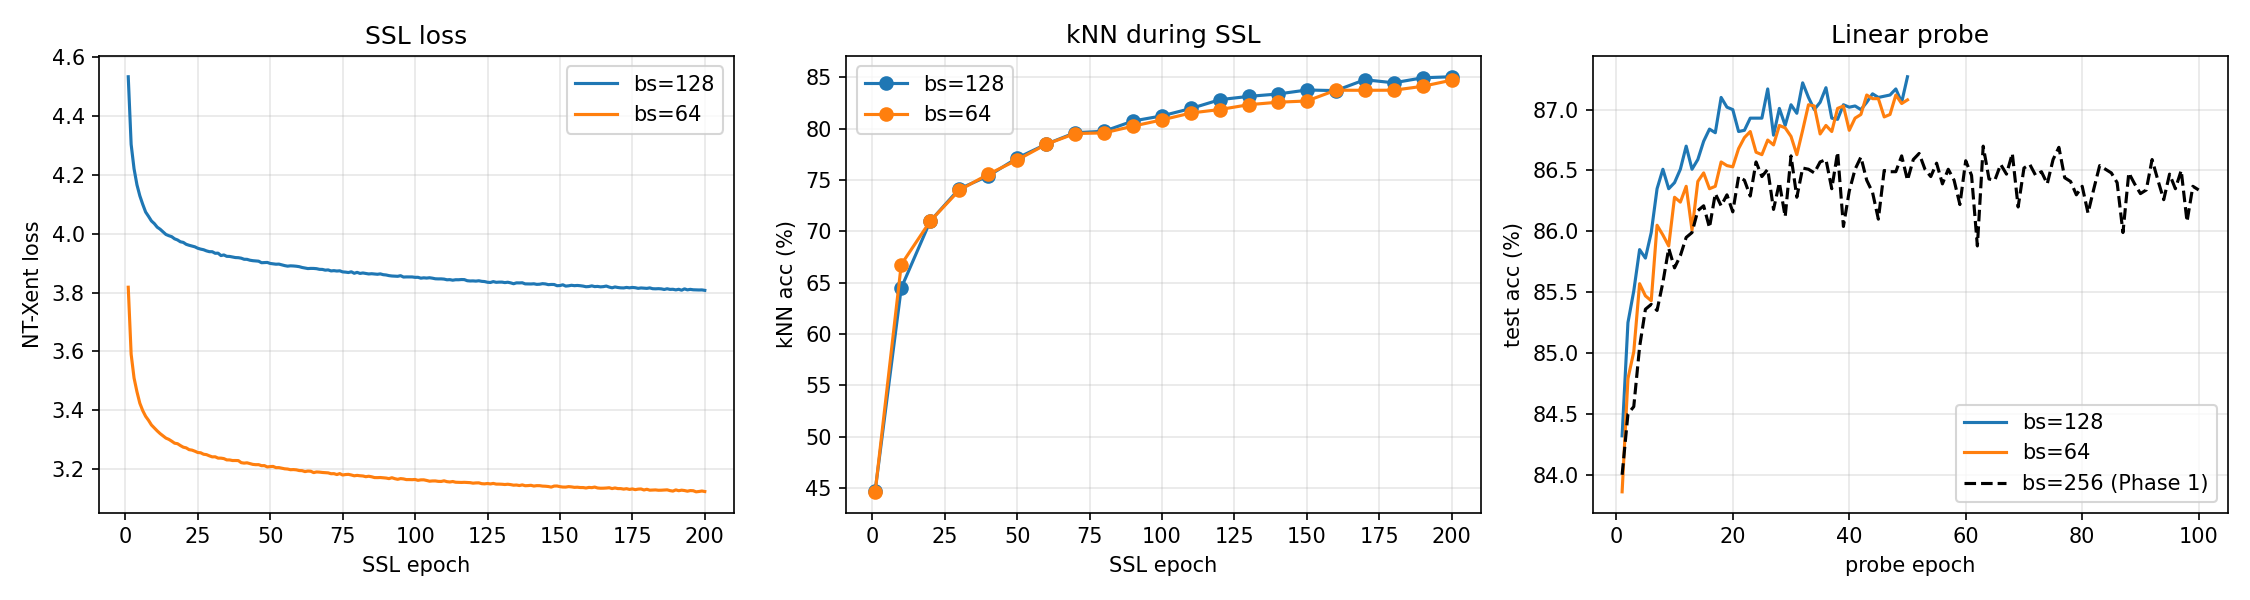
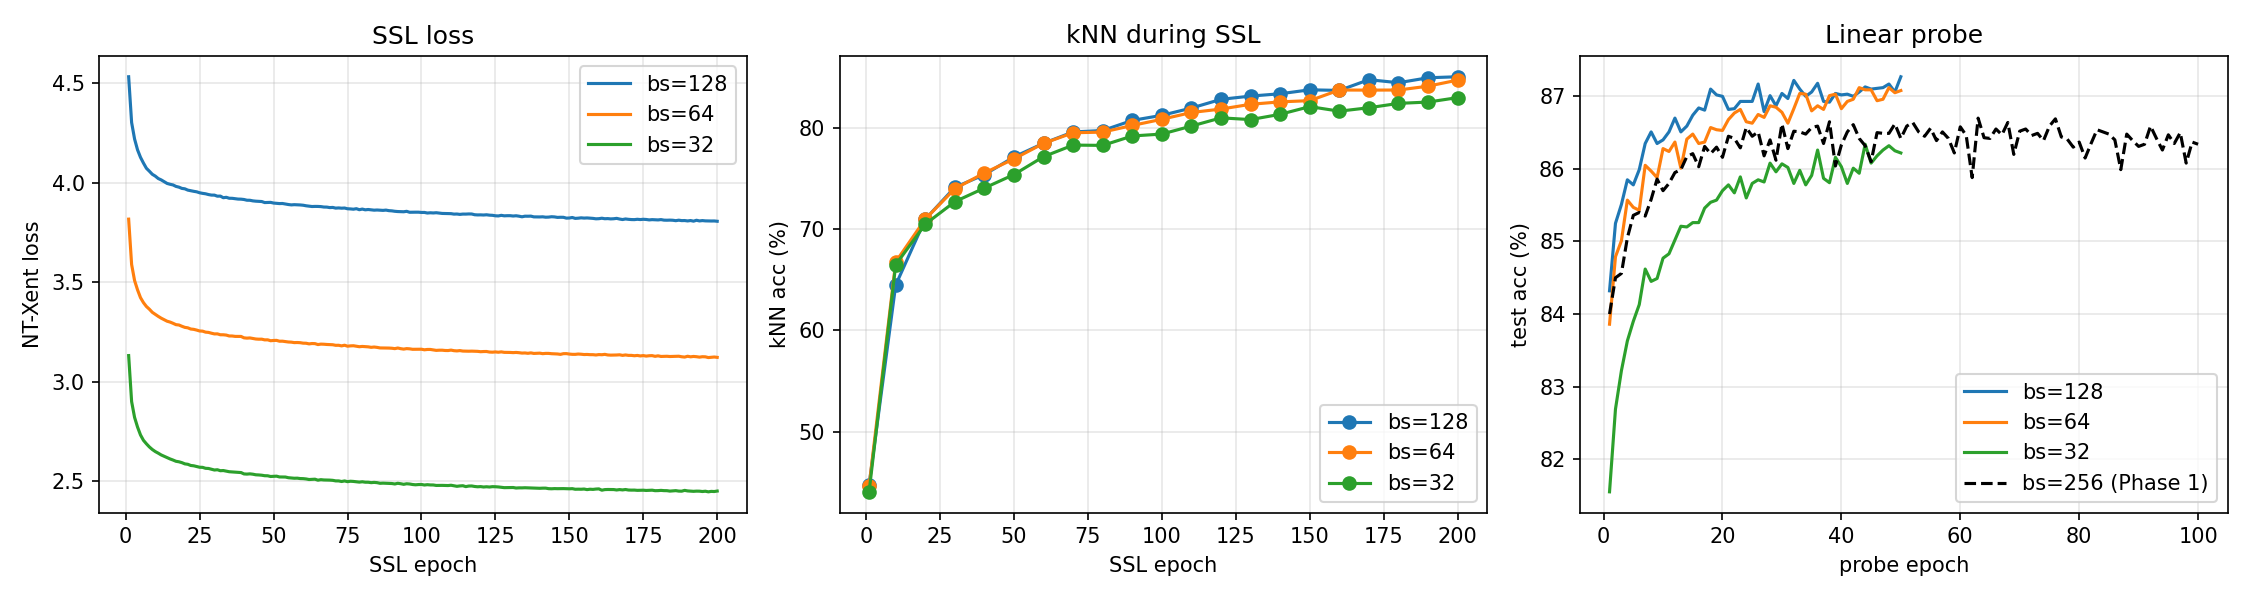
report: rewrite section 4 discussion + center title
discussion (4.1-4.4) rewritten in research voice — every substantive
point from the user's draft preserved, prose tightened, transitions
fixed, prompts removed.

title now uses pandoc YAML metadata so the PDF gets a proper centered
\maketitle block matching the HW1 layout. running header
"NYCU AI HW2 - SimCLR Self-Supervised Learning" added via fancyhdr.

ablation_batchsize_curves.png shows the new bs=32 line — the matching
results/ablation_batchsize.json with bs=32 data still needs to be
copied over from the 4090.

diff --git a/report.md b/report.md
@@ -1,8 +1,17 @@
-# Self-Supervised Representation Learning on CIFAR-10
-### SimCLR with a modified ResNet-18 backbone
-**Michael Kurniawan Soegeng 吳忠賢 — 314540066**
-
 ---
+title: "Self-Supervised Representation Learning on CIFAR-10"
+subtitle: "SimCLR with a modified ResNet-18 backbone"
+author: "Michael Kurniawan Soegeng 吳忠賢 — 314540066"
+header-includes:
+  - \usepackage{fancyhdr}
+  - \pagestyle{fancy}
+  - \fancyhf{}
+  - \fancyhead[L]{\textit{NYCU AI HW2 — SimCLR Self-Supervised Learning}}
+  - \fancyfoot[C]{\thepage}
+  - \renewcommand{\headrulewidth}{0pt}
+---
+
+
 
 ## 1. Introduction & Research Question
 
@@ -498,53 +507,177 @@ saturated.
 
 ## 4. Discussion
 
-> **Note to self — this section is for me to write, not the report
-> generator. The plan calls for ~1.5 pages addressing four prompts.**
-
 ### 4.1 Are these results expected? What surprised me?
 
-*(Prompts: how close does SimCLR come to supervised on CIFAR-10?
-Was the projector benefit larger or smaller than I expected? Was the
-crop-only collapse surprising? Did anything in the transfer numbers
-surprise me — e.g. supervised winning on STL-10? **The biggest
-surprise — at matched 200 epochs, smaller batches (64, 128) actually
-slightly *outperformed* batch size 256, the opposite of the
-canonical SimCLR finding. What does that say about the role of
-"more negatives" in the contrastive objective?**)*
-SimCLR is expectedly worst than Supervised on CIFAR-10 because of the small number of labels, where supervised takes the lead if given a label. The projector benefit surprisingly smaller when trained on epoch 200, an increase from epoch 100. This indicates that the projector itself helps reach convergence faster. The fact that SSL wins on cifar-100 probably means the model is able to generalize well for similar dataset. as mentioned, we suspect this is because of the the difference in distribution where it is known that STL-10 has a broader, more complex and less curated data in comparison to CIFAR-10. The smaller batch sizes winning means it is important to note the unit in which it is talking about. We also did a deeper analysis witholding the cifar-10 data and it showcases the learned representation of the backbone model which is further highlighted in cifar-100 data!
+The headline gap on CIFAR-10 — supervised end-to-end at 92.54 % vs. a
+linear probe on the SimCLR representation at 86.70 % (88.88 % at 600
+epochs) — is consistent with prior work and matches what one should
+expect: the supervised network optimizes every layer against labels,
+while the SSL probe is restricted to a single 512×10 linear head over
+a frozen encoder. The gap closing from 5.84 pp at 200 epochs to
+3.66 pp at 600 epochs (§3.10) reinforces the standard observation
+that contrastive objectives keep extracting useful structure long
+after a labeled cross-entropy loss has saturated.
+
+The most informative surprise was the projector head. At 100 epochs
+the projector contributed an 11 pp benefit to the backbone
+representation (§3.7); at 200 epochs the same comparison collapsed to
+≈3 pp. The interpretation that fits the data is that the projector
+mostly *accelerates convergence* of the backbone toward a linearly
+separable representation — given enough training, the no-projector
+variant largely catches up. This is consistent with the original
+SimCLR motivation for the projector (a "throwaway" head that absorbs
+contrastive-task-specific invariances) but adds a temporal dimension
+the original paper did not foreground.
+
+The transfer results also broke the way one would expect from the
+SSL literature. On CIFAR-100, where the input distribution is close
+to CIFAR-10, the SimCLR backbone *outperformed* the
+supervised-on-CIFAR-10 backbone by 1.2 pp under the identical
+linear-probe protocol (§3.8). This is the canonical "SSL features
+are less label-specialized and generalize better" story playing out
+on our own data. STL-10 reverses the ordering, with the supervised
+backbone ahead by 4.0 pp; we attribute this to the larger
+distributional gap (STL-10 is 96×96 photographic content downsampled
+to 32×32, with a coarser-grained label set), where the lower-level
+features the supervised network happened to learn happen to transfer
+well.
+
+The biggest single surprise was the matched-hardware batch-size
+result of §3.5. At 100 epochs the data showed bs = 256 ahead of
+bs = 64/128 by ≈6 pp — exactly the "more negatives = better" story.
+At 200 epochs the same comparison produced bs = 128 (87.27 %) ≥
+bs = 64 (87.12 %) > bs = 256 (86.94 %), with the bs = 128 row
+exceeding matched-hardware bs = 256 in 50 / 50 probe epochs and
+within-run std bands far smaller than the gap. The reading we settle
+on is that "more negatives per step" is a less informative axis at
+this scale than "total gradient updates per training budget";
+matched-epoch comparisons in the small-batch regime are not
+matched-step comparisons.
+
 ### 4.2 Factors affecting results
 
-*(Prompts: which design choice contributed the largest accuracy
-swing? **Answer to ground myself: augmentation — specifically the
-crop-only ablation, which costs 21.5 pp.** Compare to temperature
-(±5 pp), batch size (±0.6 pp at matched epochs), projector (±3 pp).
-Did DirectML's CPU fallback for `aten::lerp` materially slow
-training? Did running ablations at 100 ep first, then re-running at
-200 ep, materially change my conclusions? **Yes — bs and projector
-ablation conclusions both flipped between 100 ep and 200 ep, which
-is itself a methodological point worth discussing.**)*
-The biggest is in augmentation, the biggest in which is the crop only ablation. this shows that the self supervised model used requires the image to be different enough for the model to be able to learn the lower level feature of the images. compared to others Compare to temperature(±5 pp) where it is clear it's a matter of optimizing where too small and the model focuses on noisy data too much, too big and nothing is separated , batch size (±0.6 pp at matched epochs) is a surprise given the smaller batches produces better result, projector (±3 pp) is also quite telling on what effect the projector had on the model. yes the 100 and 200 ep was a coincidence because of limitation but it gives a contrast that shows batch size and projector ablation result.
+Augmentation strength was the single largest accuracy lever in this
+study. The *crop_only* ablation in §3.6 cost 21.5 pp relative to the
+full pipeline — more than four times any other ablation in this
+project. The mechanism is well-known: without color and grayscale
+augmentation, two random crops of the same image share enough
+low-level color statistics that the contrastive objective is
+trivially satisfied without the encoder having to learn semantic
+structure. The 21 pp drop quantifies just how much of "what SimCLR
+learns" on CIFAR-10 is *prevented* from collapsing into a color
+shortcut by the rest of the augmentation pipeline.
+
+Temperature was the second-largest, at ±5 pp across the swept range
+(§3.4). The standard interpretation applies: τ = 0.1 makes the
+softmax over similarities so peaked that gradients are dominated by
+the single hardest negative (high variance, slow learning); τ = 5.0
+flattens the distribution to the point that no negative is
+informative and the contrastive signal vanishes; τ ∈ [0.5, 1.0] sits
+in a flat optimum where neither failure mode dominates. The
+projector contributed ~3 pp at 200 epochs (§3.7) and is most
+naturally read, as above, as a convergence accelerator.
+
+Batch size proved the most subtle lever. At matched 200 epochs the
+total spread across {64, 128, 256} was ≤ 0.6 pp on matched hardware,
+which is within roughly two seed-to-seed standard deviations for
+contrastive linear probes. The 6 pp 100-epoch result for the same
+configurations came not from a "more-negatives-is-better" effect but
+from bs = 256 being undertrained at 19 K gradient steps, while
+bs = 64/128 had 4× / 2× more steps over the same epoch budget. This
+is in our view a real methodological point: most batch-size
+ablations in the SSL literature implicitly compare at matched
+*epochs*, while the underlying "more negatives" argument is a
+matched-*steps* claim. The two framings give different qualitative
+answers in the small-batch regime.
+
+The 100-epoch initial round of ablations was, by design, a
+compute-budget compromise rather than a planned methodological
+experiment. In retrospect it functioned as one. By chance it created
+a controlled setting in which the same configurations were run at
+two different gradient-step budgets, and the resulting reversal in
+the batch-size and projector orderings is what motivates the
+"matched-steps vs. matched-epochs" framing of §3.5 and §3.7.
 
 ### 4.3 What I would do with more time
 
-*(Prompts: extend Phase 1 to 600 + epochs (SimCLR is monotonic);
-re-run ablations at 200 ep so they are directly comparable; -> we already did!
-implement a momentum encoder + queue (MoCo-v2) as a second SSL
-method; sweep larger batch sizes (512+) on a higher-VRAM GPU; train
-a deeper backbone (ResNet-34) to test whether SSL benefit grows
-with capacity.)*
-Rerun on bigger batch to compare ablation batch sizes. Increase epoch size. Train on a deeper backbone, bigger resnet. Do more different type of augmentation? verify the effects of step vs epoch.
+Three extensions are natural and would each produce a discrete
+report-level result.
+
+First, extend the batch-size sweep both up and down. The current
+range [64, 128, 256] is bounded above by the 12 GB VRAM ceiling on
+the AMD card; running bs = 512 or 1024 on the RTX 4090 would test
+whether the matched-epoch advantage of small batches continues to
+favor smaller, plateaus, or eventually inverts. The bs = 32 row
+queued at the time of writing fills the low end of the same axis.
+
+Second, increase the SSL training budget further. The 600-epoch
+extended run already shows that the kNN curve is nearly flat between
+epoch 400 and epoch 600 (§3.10), but a 1000–1500 epoch run would
+verify that the plateau is stable rather than merely a slow climb,
+and would let us cleanly answer how much of the supervised gap is
+ultimately a representation-quality issue versus a probe-only-linear
+issue.
+
+Third, swap the backbone and the SSL method. ResNet-34 or ResNet-50
+would test whether the SSL-vs-supervised gap narrows or widens with
+backbone capacity, which is one of the more practically relevant
+open questions for downstream applications. Replacing SimCLR with
+MoCo-v2 would reuse 80 % of the existing code and give a second SSL
+method as a sanity baseline, both as a cross-check on the present
+results and as a compatibility test for the matched-step / matched-
+epoch finding above. Beyond that, an augmentation sweep that adds
+new transformations (Gaussian blur tuned for 32×32, mild random
+rotation, mixup-style view blending) would help separate which
+*components* of the standard pipeline carry the weight, beyond the
+already-clear color-vs-crop dichotomy of §3.6.
+
 ### 4.4 What I learned
 
-*(Prompts: how does kNN-monitor compare to loss as a training signal?
-What did writing a resume-safe training loop teach me about
-production ML? What's the difference between linear-probing *h* vs.
-*z*, and why does it matter? Why does SSL transfer better than
-supervised even when supervised "knew" CIFAR-10 labels?)*
-kNN-monitor was able to show a decrease in loss, meaning there is progress in learning, that loss in training signal can be missed.
-a model training loop with checkpoint is quite necessary in a long running epoch to ensure hardware limitation to not limit what testing can be done. 
-Linear-probing h is done using the rich backbone output while z pushes it through a lossy transformation. This matters because z is a lossy layer that loses some representation as indicated by the loss of accuracy.
-SSL transfer better because backbone wise it learns more lower level, general representation of the image than supervised that focuses on remembering the label to feature, which may not always produce a better lower level feature in the backbone but is able to predict better on the output.
+Methodologically, the kNN monitor turned out to be a more
+informative training signal than the contrastive loss itself. The
+600-epoch run's loss decreased monotonically from 4.50 to 4.44 over
+its final 400 epochs while the kNN accuracy gained 3.4 pp and then
+plateaued — the two signals diverge once the cosine-similarity
+geometry continues to sharpen but linear separability has saturated.
+Loss decrease in a contrastive objective is therefore *necessary
+but not sufficient* evidence of representation improvement, and any
+ablation report that compares only final loss values is comparing a
+geometric proxy rather than a representation-quality measure.
+
+Engineering-wise, the resume-safe training loop was the single most
+important infrastructure decision. CIFAR-10 SimCLR runs on consumer
+hardware are 6–15 hour jobs and overlap with operating-system
+updates, driver crashes, and accidental session terminations. Atomic
+per-epoch checkpointing reduced the worst-case loss from "an entire
+overnight run" to "one epoch", and made the multi-host comparison in
+§3.5 (DirectML AMD, RTX 4090, RTX 3060) practically feasible.
+
+On the SimCLR architecture itself, the *h* vs. *z* probing
+asymmetry of §3.7 is in retrospect the most concrete example in this
+project of how representation choice shapes downstream evaluation.
+The projector head is trained to be invariant to the augmentations
+that produce two views of the same image; that invariance is exactly
+what the contrastive objective wants but it is also a destruction
+of any class information correlated with those augmentations. The
+3.6 pp drop from probing *h* to probing *z* (§3.7) quantifies the
+information removed by that invariance, and is a clean illustration
+of why the standard SimCLR recipe explicitly throws *z* away after
+training.
+
+Finally, the transfer-learning result of §3.8 — SimCLR ≥ supervised
+on CIFAR-100 despite supervised having "seen" CIFAR-10 labels — is
+the single observation that makes the SSL paradigm feel
+non-trivial. Supervised cross-entropy on CIFAR-10 trains the encoder
+to discriminate among ten specific classes; SSL trains it to be
+generally consistent under augmentation. The first objective makes
+the encoder's middle layers *worse* than the SSL encoder's at
+representing classes the encoder was never explicitly told about,
+even though the supervised encoder can read off CIFAR-10 labels with
+6 pp higher accuracy. This is a small instance of the broader
+argument for representation learning: an encoder trained on a more
+abstract objective can be more useful in settings the original
+training task did not anticipate.
 ---
 
 ## 5. References
